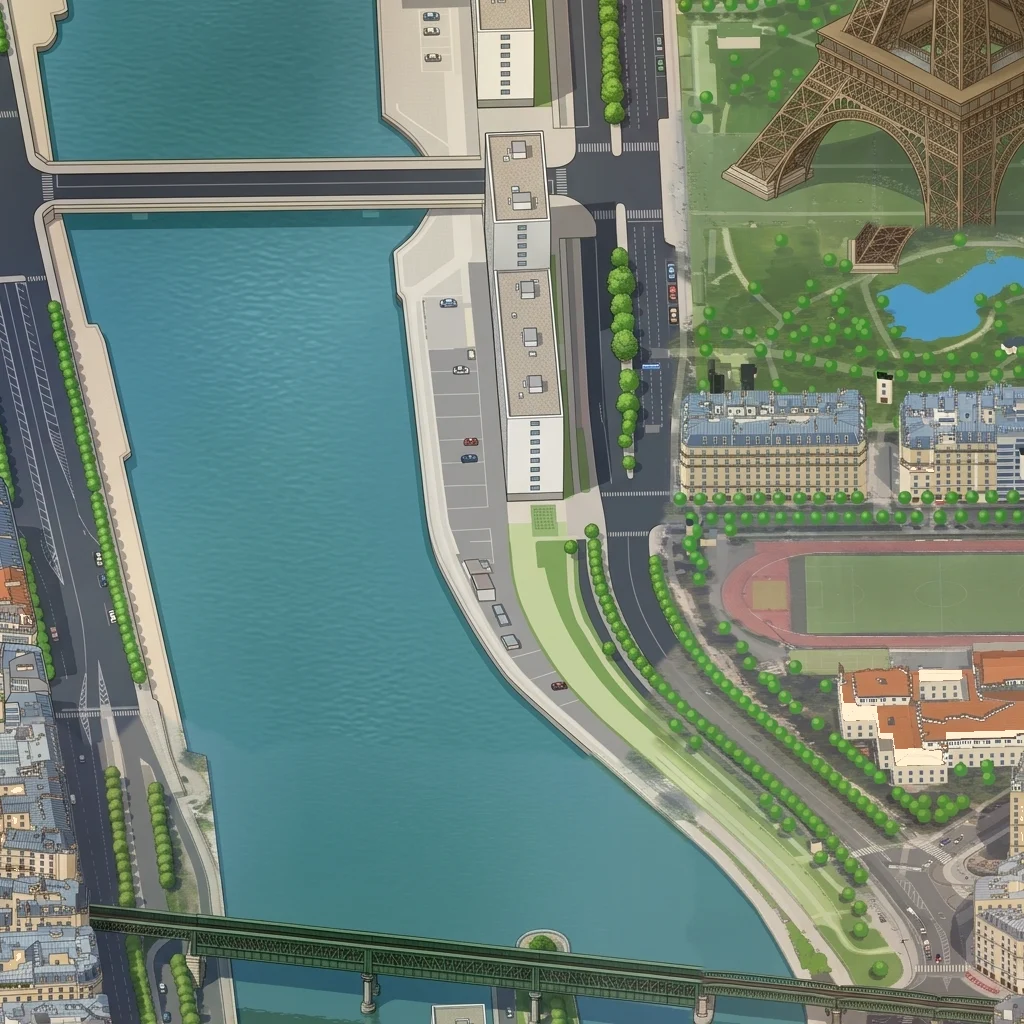
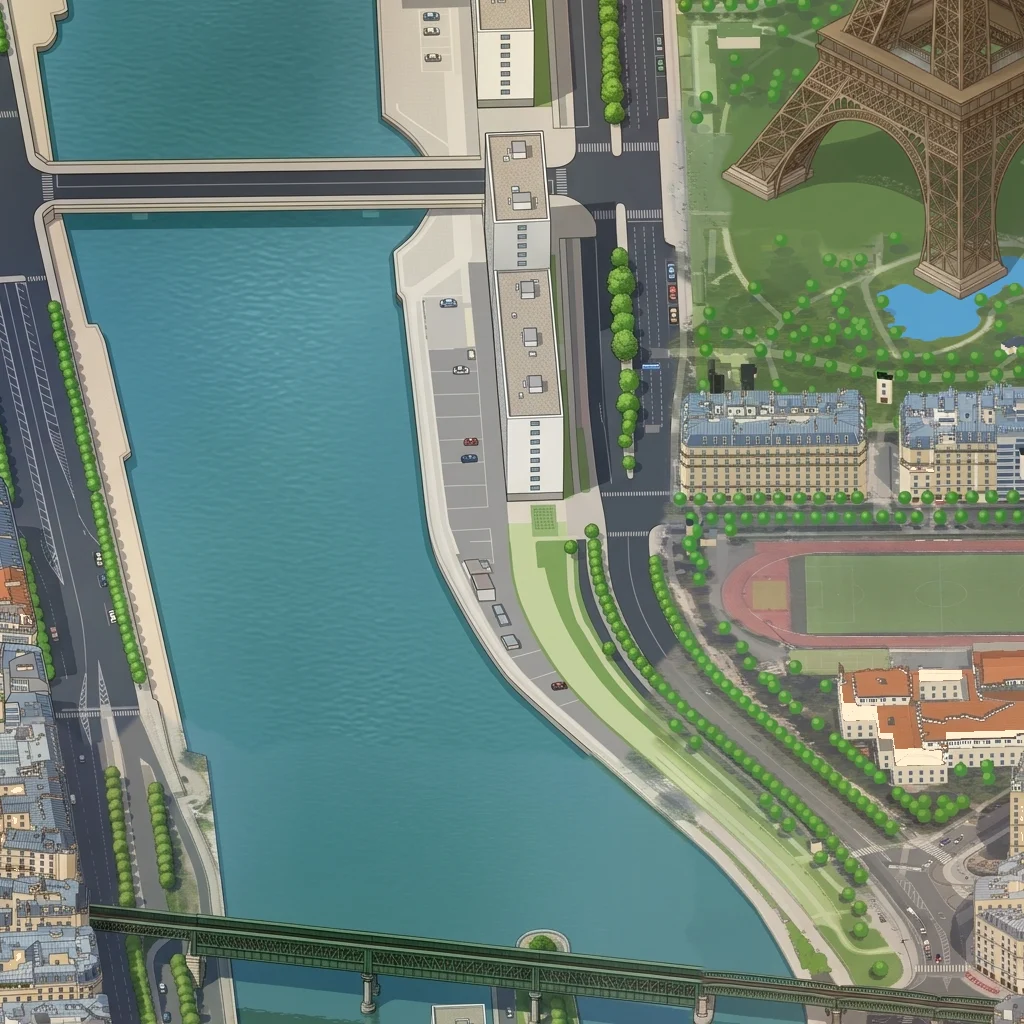
A loading plaque with download progress; Eiffel Tower legs fixed
The city data is 36 MB now, and the page sat on one line of text while
it came in. A plaque with a jade bar shows the download, then the build
step, then fades out. Compressed responses don't give their unpacked
size, so the expected size stands in.

Also restitched with the Eiffel Tower's legs carried down to the ground
and the stubs of the first, smaller painting removed.

diff --git a/src/model.ts b/src/model.ts
@@ -358,11 +358,39 @@ function ringsToPath(path: Path2D, rings: number[][], k: number) {
   }
 }
 
-export async function loadWorld(url: string, bdtopoUrl?: string): Promise<World> {
+/**
+ * Fetches JSON, reporting progress as a fraction. Compressed responses don't
+ * say their unpacked size, so `expected` bytes stand in for it.
+ */
+async function fetchJson(url: string, expected: number, onProgress?: (f: number) => void) {
+  const res = await fetch(url);
+  if (!onProgress || !res.body) return res.json();
+  const len = Number(res.headers.get("content-length"));
+  const total = len && !res.headers.get("content-encoding") ? len : expected;
+  const reader = res.body.getReader();
+  const parts: Uint8Array[] = [];
+  let got = 0;
+  for (;;) {
+    const { done, value } = await reader.read();
+    if (done) break;
+    parts.push(value);
+    got += value.length;
+    onProgress(Math.min(0.99, got / total));
+  }
+  const all = new Uint8Array(got);
+  let at = 0;
+  for (const p of parts) { all.set(p, at); at += p.length; }
+  return JSON.parse(new TextDecoder().decode(all));
+}
+
+export async function loadWorld(url: string, bdtopoUrl?: string, onProgress?: (f: number) => void): Promise<World> {
   const [raw, bdRaw]: [Raw, { rows: BdRow[] } | null] = await Promise.all([
-    fetch(url).then((r) => r.json()),
+    fetchJson(url, 36.6e6, onProgress),
     bdtopoUrl ? fetch(bdtopoUrl).then((r) => (r.ok && r.headers.get("content-type")?.includes("json") ? r.json() : null)) : null,
   ]);
+  // Let the page show "building" before the long synchronous work below.
+  onProgress?.(1);
+  await new Promise((r) => requestAnimationFrame(() => setTimeout(r, 0)));
   const k = raw.scale;
   const lat0 = raw.origin.lat;
   const lon0 = raw.origin.lon;

diff --git a/src/main.ts b/src/main.ts
@@ -531,9 +531,21 @@ function setupLandmarks() {
   }
 }
 
+/** The loading plaque: download progress, then the build step, then gone. */
+function showLoading(f: number | null) {
+  const el = $("loading");
+  if (f == null) {
+    el.classList.add("done");
+    setTimeout(() => (el.hidden = true), 400);
+    return;
+  }
+  (el.querySelector(".bar i") as HTMLElement).style.width = `${Math.round(f * 100)}%`;
+  el.querySelector(".what")!.textContent = f < 1 ? `Downloading the city · ${Math.round(f * 100)}%` : "Building 100,000 buildings…";
+}
+
 async function main() {
   const [w, transit, pois] = await Promise.all([
-    loadWorld("/data/paris.json", "/data/paris-bdtopo.json"),
+    loadWorld("/data/paris.json", "/data/paris-bdtopo.json", showLoading),
     loadTransit("/data/paris-transit.json"),
     fetch("/data/paris-pois.json").then((r) => (r.ok ? r.json() : { cafes: [] })).catch(() => ({ cafes: [] })),
   ]);
@@ -557,6 +569,7 @@ async function main() {
   document.fonts.ready.then(() => requestPresent());
   requestRender();
   requestAnimationFrame(tick);
+  showLoading(null);
 }
 
 main().catch((err) => {

diff --git a/src/style.css b/src/style.css
@@ -557,3 +557,49 @@ h1 {
     width: auto;
   }
 }
+
+/* ---- Loading: a plaque with a jade progress bar --------------------------- */
+
+.loading {
+  position: fixed;
+  inset: 0;
+  z-index: 10;
+  display: grid;
+  place-content: center;
+  justify-items: center;
+  gap: 14px;
+  background: linear-gradient(var(--sky-top), var(--sky-bottom));
+  transition: opacity 0.4s;
+}
+
+.loading.done {
+  opacity: 0;
+  pointer-events: none;
+}
+
+.loading .plaque {
+  width: 300px;
+}
+
+.loading .bar {
+  width: 300px;
+  height: 10px;
+  border-radius: 99px;
+  background: rgba(31, 44, 107, 0.15);
+  overflow: hidden;
+}
+
+.loading .bar i {
+  display: block;
+  width: 0;
+  height: 100%;
+  background: var(--jade);
+  transition: width 0.2s;
+}
+
+.loading .what {
+  margin: 0;
+  font: 500 12px "IBM Plex Mono", ui-monospace, monospace;
+  letter-spacing: 0.04em;
+  color: var(--muted);
+}

diff --git a/index.html b/index.html
@@ -11,7 +11,16 @@
     <link rel="stylesheet" href="/src/style.css" />
   </head>
   <body>
-    <canvas id="map" aria-label="Isometric map of north-east Paris"></canvas>
+    <canvas id="map" aria-label="Isometric map of Paris"></canvas>
+
+    <div class="loading" id="loading" role="status" aria-live="polite">
+      <div class="plaque">
+        <span class="arrt">Prochain train</span>
+        <h1>Tiny Paris</h1>
+      </div>
+      <div class="bar"><i></i></div>
+      <p class="what">Downloading the city · 0%</p>
+    </div>
 
     <header class="title">
       <div class="plaque">
